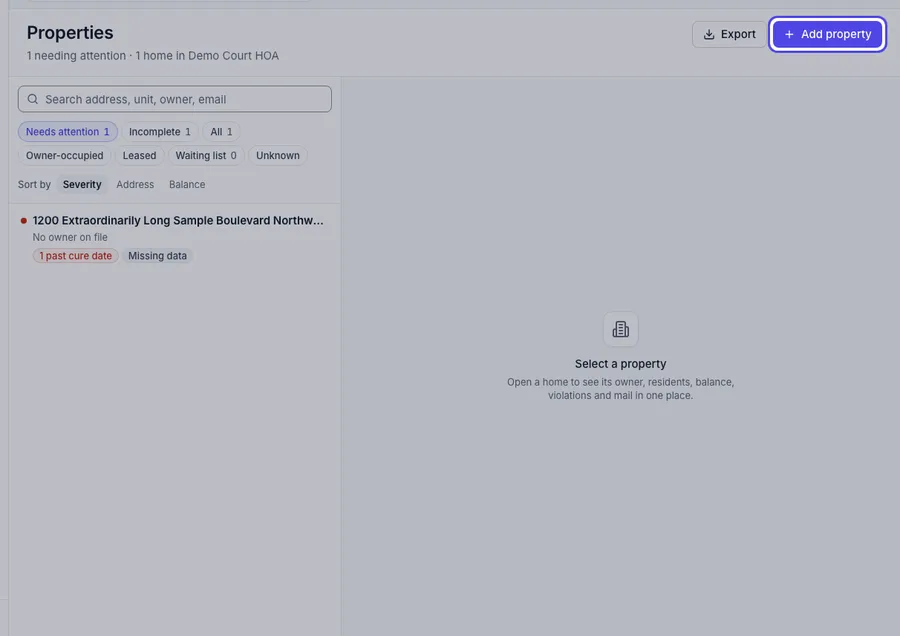
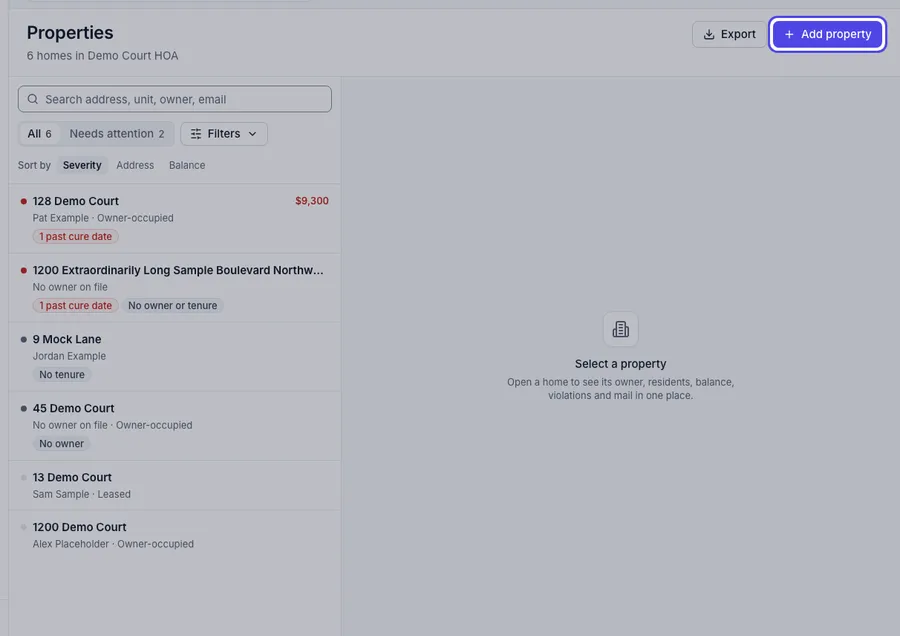
docs(guide): match the properties P0/P1 base (BL-070)
- setup-properties-residents: adding a property now creates the billable
  home and its current owner; Community picker when the HOA has several;
  opens the new property with "Property added."; All / Needs attention
  and Filters on the list; New violation here; Archive in the More
  actions menu replaces Delete
- dues-generate-monthly: "Add properties before generating dues.";
  generating dues makes older homes billable when there is one community
- violations-report-and-letter: type-to-search Property picker; start
  from a property's Violations tab with New violation here
- start-board-admin: homes added in Properties can be billed straight away
- Regenerated the screenshots guide:check flagged as stale after the merge

diff --git a/apps/hoa/content/guide/setup/setup-properties-residents.md b/apps/hoa/content/guide/setup/setup-properties-residents.md
@@ -1,12 +1,12 @@
 ---
 id: setup-properties-residents
 title: Add your properties and residents
-summary: Add each home's address, then the owners, tenants and family members who live there.
+summary: Add each home's address so it can be billed, then the owners, tenants and family members who live there.
 topic: setup
 roles: [admin, board]
 routes: ["/properties", "/properties/new", "/properties/[id]"]
 primary_route: /properties
-keywords: [property, home, house, address, unit, lot, owner, resident, tenant, import, spreadsheet, csv]
+keywords: [property, home, house, address, unit, lot, owner, resident, tenant, import, spreadsheet, csv, archive]
 shots:
   - name: guide-properties-list
     alt: The Properties page with the Add property button highlighted
@@ -16,7 +16,7 @@ related: [start-board-admin, dues-generate-monthly, members-invite-board]
 reviewed: 2026-10-17
 ---
 
-Every home in the community is a property. Owners, residents, violations and mail all hang off a property, so add them first.
+Every home in the community is a property. Dues, owners, residents, violations and mail all hang off a property, so add them first.
 
 ## Before you start
 - You need the list of addresses. The owner's name, email and phone are optional.
@@ -24,26 +24,28 @@ Every home in the community is a property. Owners, residents, violations and mai
 
 ## Steps
 1. Open **Properties** from the sidebar and select [[Add property]].
-2. Fill in the **Address**. Add the **Unit / Lot #** and owner details if you have them.
-3. Select [[Add property]] to save. You go back to the Properties list.
-4. Open the property, then the **Residents** tab, and select [[Add resident]].
-5. Enter the **Full name** and pick a **Role** (Owner, Tenant, Family member or Other). Email and phone are optional.
-6. Tick [[Primary contact]] for the person notices should be addressed to, then select [[Add resident]].
+2. Fill in the **Address**. Add the **Unit / Lot #** and the owner's details if you have them.
+3. If your HOA has more than one community, pick the **Community** the home belongs to.
+4. Select [[Add property]] to save. The new property's page opens and says "Property added."
+5. Open the **Residents** tab and select [[Add resident]].
+6. Enter the **Full name** and pick a **Role** (Owner, Tenant, Family member or Other). Tick [[Primary contact]] for the person notices go to, then select [[Add resident]].
 
 ![[guide-properties-list]]
 
 ![[guide-properties-new]]
 
 ## What happens next
-The property appears in the Properties list. Its residents get notices and outreach for that home, and the property page shows its balance, violations and mail in one place.
+The home is ready to bill straight away: it gets its dues record, and the owner you entered is recorded as its current owner. It appears on the Properties list, and the property page shows its balance, residents, violations and mail in one place.
 
 ## If something goes wrong
 - "Address is required.": the address is the only field you must fill in.
 - "Owner email must be a valid email.": check the email, or leave it blank.
+- "Choose a community from the list.": your HOA has several communities, so pick one.
 - "Enter the resident’s name.": a resident needs a full name.
 
 ## Good to know
-- **Dues are billed from your community's unit list, not from this form.** A property you add here appears in Properties, but it is not yet a home that dues can be charged to. The unit list is loaded by HomeownerHub support from your spreadsheet. Ask support to import your homes, or to add a new one.
-- Have many homes? There is no spreadsheet upload for boards. Ask support to import your spreadsheet.
+- The Properties list starts on **All** homes. Switch to **Needs attention** to see homes with something to deal with, and use [[Filters]] to narrow by records or tenure. Search looks through every home.
+- From a property's **Violations** tab, [[New violation here]] starts a violation report for that home.
 - To change an owner's details, open the property and select [[Edit]].
-- To remove a resident, open the Residents tab and use the remove button on their row. Their record stays in the property's history.
+- A home you no longer need can be archived: open it, select the **More actions** button (⋯), then [[Archive]]. Its residents, violations and dues stay on file.
+- Have many homes? There is no spreadsheet upload for boards. Ask support to import your spreadsheet.

diff --git a/apps/hoa/content/guide/setup/start-board-admin.md b/apps/hoa/content/guide/setup/start-board-admin.md
@@ -25,7 +25,7 @@ HomeownerHub keeps your board's work in one place: homes and residents, dues, vi
 
 ### The six steps
 - [[Connect the HOA mailbox]]: resident email comes into the Inbox, filed under the right home.
-- [[Add your properties]]: every address in the community. See [Add your properties and residents](guide:setup-properties-residents).
+- [[Add your properties]]: every address in the community. Each home you add can be billed straight away. See [Add your properties and residents](guide:setup-properties-residents).
 - [[Add owners and residents]]: who lives where, so mail and dues match a person.
 - [[Upload governing documents]]: your CC&Rs and bylaws, so answers cite your own rules. See [Upload your governing documents](guide:documents-governing-and-ask).
 - [[Set up dues]]: bill this month's dues so every home has a balance. See [Bill this month's dues](guide:dues-generate-monthly).
@@ -40,4 +40,4 @@ The checklist ticks itself off as the data appears, so do the steps in any order
 
 ## Good to know
 - Hiding the card only hides it in this browser. If a step stops being true later, the card comes back.
-- The sign-up setup page has its own short checklist. Its **Import properties** step uploads a spreadsheet, which is a support tool. Ask support to import your list of homes for you.
+- The sign-up setup page has its own short checklist. Its **Import properties** step uploads a spreadsheet, which is a support tool. Add homes one at a time in Properties instead, or ask support to import your list of homes.

diff --git a/apps/hoa/content/guide/dues/dues-generate-monthly.md b/apps/hoa/content/guide/dues/dues-generate-monthly.md
@@ -20,7 +20,7 @@ A dues charge is money a home owes the association. Each charge posts to the led
 
 ## Before you start
 - Your HOA needs an association. If it has none, the Dues page shows [[Set up your association]] instead. An admin fills in the **Association name**, **State** and **Type**, then selects [[Create association]].
-- Dues are billed per home on your unit list. See [Add your properties and residents](guide:setup-properties-residents).
+- Dues are billed to the homes in Properties. Every home you add there can be billed. See [Add your properties and residents](guide:setup-properties-residents).
 
 ## Steps
 ### Every home, this month
@@ -43,7 +43,8 @@ The charges appear on the Dues page, grouped by month, with each home's status. 
 
 ## If something goes wrong
 - No charges yet: the page says **No dues billed yet**. If you have not added homes, select [[Add properties first]].
-- "Add units before generating assessments.": your HOA has no homes on its unit list yet. Ask support to import them.
+- An older home is missing from the bill: if your HOA has one community, generating dues first makes every home in Properties billable. With several communities, ask support to link the home to its community.
+- "Add properties before generating dues.": your HOA has no homes yet. Add them in Properties first.
 - "Assessments for this period are already on file.": this month's dues were already generated. Homes that already have regular dues this period are skipped.
 
 ![[guide-dues-no-association]]

diff --git a/apps/hoa/content/guide/violations/violations-report-and-letter.md b/apps/hoa/content/guide/violations/violations-report-and-letter.md
@@ -24,7 +24,7 @@ A violation goes from report, to notice, to cure period, to closed. HomeownerHub
 
 ## Steps
 1. Open **Violations** from the sidebar and select [[Report violation]].
-2. Pick the **Property** and add at least one photo. Add **Additional notes** if they help.
+2. Under **Property**, type an address or unit and pick the home from the list. Add at least one photo, and **Additional notes** if they help.
 3. Select [[Analyze with Covenant Brain]]. It reads the photo, matches the CC&R section and drafts the letter.
 4. Read the draft all the way to the bottom and fix anything that is wrong.
 5. Select [[Approve & mark notice sent]].
@@ -40,6 +40,7 @@ The violation is recorded with the notice marked as sent, and the cure period st
 - "Analysis failed": try again, or write the letter yourself.
 
 ## Good to know
+- Already on the property's page? Its **Violations** tab has [[New violation here]], which starts the report with that home picked.
 - **Nothing is sent from HomeownerHub.** Approving records that the notice went out and starts the cure clock. You send the letter.
 - The **State law for this letter** panel shows your state's rules for notices and fines, such as how many days' notice an owner gets and the largest fine allowed. Florida and California are covered.
 - Some letters are drafted for you by the AI and wait in the [[AI approval queue]] tab. Read each one and select [[Approve letter]], or [[Reject]] with a reason. Approving files it as an open violation.
